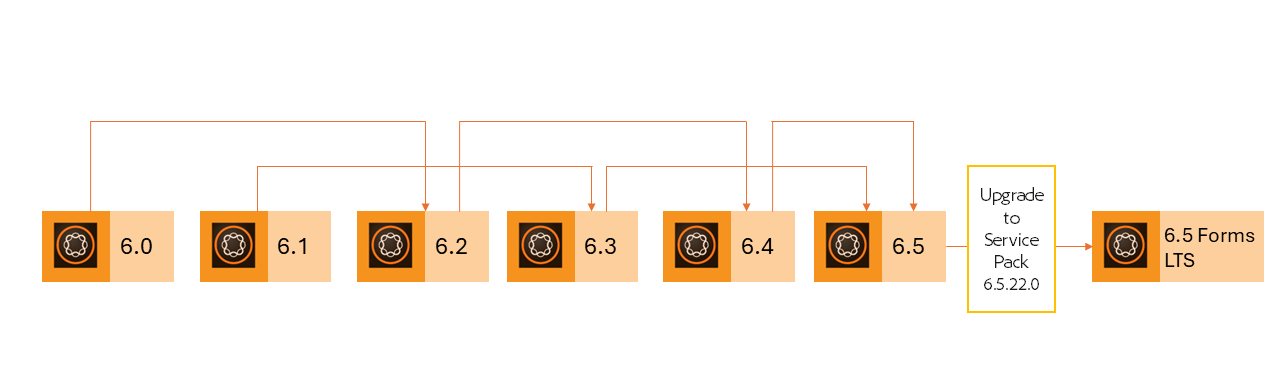
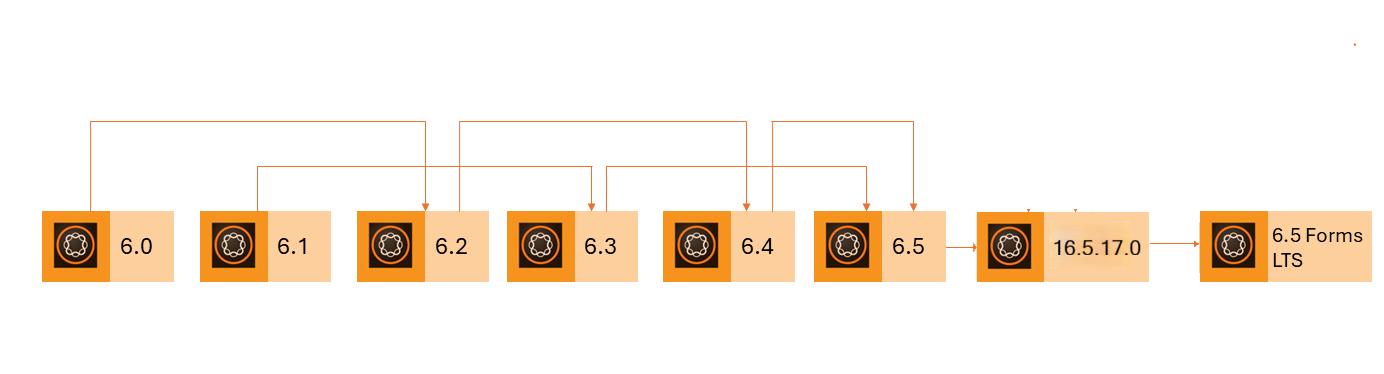
upgraded the image

diff --git a/help/forms/using/upgrade.md b/help/forms/using/upgrade.md
@@ -1,6 +1,6 @@
 ---
-title: Upgrade to AEM 6.5 Forms
-description: You can perform a direct upgrade from AEM 6.3 Forms and AEM 6.4 Forms to AEM 6.5 Forms.
+title: Upgrade to AEM 6.5 LTS Forms
+description: You can perform a direct upgrade from AEM 6.3 Forms and AEM 6.4 Forms to AEM 6.5 LTS Forms.
 content-type: reference
 topic-tags: installing
 geptopics: SG_AEMFORMS/categories/jee
@@ -10,7 +10,7 @@ solution: Experience Manager, Experience Manager Forms
 feature: Adaptive Forms,AEM Forms Upgrade
 exl-id: 93126750-4645-4084-a21b-5362e3cc08a9
 ---
-# Upgrade to AEM 6.5 Forms {#upgrade-to-aem-forms}
+# Upgrade to AEM 6.5 Forms LTS {#upgrade-to-aem-forms}
 
 ## Applies to {#applies-to}
 
@@ -19,46 +19,29 @@ This documentation applies to **AEM 6.5 LTS Forms**.
 For AEM as a Cloud Service documentation, see [AEM Forms on Cloud Service](https://experienceleague.adobe.com/docs/experience-manager-cloud-service/content/forms/setup-configure-migrate/migrate-to-forms-as-a-cloud-service.html).
 
 
-AEM 6.5 Forms includes several new features and enhancements that streamline the creation, management, and user experiences with forms and correspondences. To learn about all the new capabilities and enhancements of AEM 6.5, see [New features summary document](https://experienceleague.adobe.com/en/docs/experience-manager-65/content/release-notes/release-notes).
+AEM 6.5 LTS Forms includes several new features and enhancements that streamline the creation, management, and user experiences with forms and correspondences. To learn about all the new capabilities and enhancements of AEM 6.5 LTS, see [New features summary document](https://experienceleague.adobe.com/en/docs/experience-manager-65-lts/content/release-notes/release-notes).
 
-You can upgrade your existing LiveCycle or AEM Forms installation to obtain new capabilities and enhancements offered in AEM 6.5 Forms while retaining existing data, processes, and assets intact. On upgrade, metadata and state of the processes are also preserved. You can choose an upgrade path to get started with upgrade.
+You can upgrade your existing LiveCycle or AEM Forms installation to obtain new capabilities and enhancements offered in AEM 6.5 LTS Forms while retaining existing data, processes, and assets intact. On upgrade, metadata and state of the processes are also preserved. You can choose an upgrade path to get started with upgrade.
 
-The following diagram displays the available upgrade paths for AEM Forms on OSGi:
+The following diagram displays the available upgrade paths for AEM Forms LTS on OSGi:
 
 ![OSGi upgrade flow](/help/forms/using/assets/updated-img-forms-upgrade-lts.png) 
 
 You can perform a direct upgrade from:
 
-* AEM 6.3 Forms on OSGi
-* AEM 6.4 Forms on OSGi
-* AEM 6.5.22.0 to AEM Forms 6.5 LTS
+* AEM 6.5.17.0 to AEM Forms 6.5 LTS
 
-You can also perform a multi-hop upgrade from
-
-* AEM 6.0 Forms on OSGi
-* AEM 6.1 Forms on OSGi
-* AEM 6.2 Forms on OSGi
-
-<!--
-
-The following diagram displays the available upgrade paths for AEM Forms on JEE:
+The following diagram displays the available upgrade paths for AEM Forms LTS on JEE:
 
 ![JEE upgrade 6.5](do-not-localize/jee-upgrade-6-5.png) 
 
-
 You can perform a direct upgrade from:
 
-* AEM 6.3 Forms on JEE
-* AEM 6.4 Forms on JEE
-* AEM 6.5.x.x Forms on JEE
+* AEM 6.5.17.0 Forms on JEE
+* AEM 6.5.23.0 Forms on JEE
 
-You can also perform a multi-hop upgrade from
 
-* LiveCycle ES4 SP1
-* AEM 6.0 Forms on JEE
-* AEM 6.1 Forms on JEE
-* AEM 6.2 Forms on JEE
-
+<!--
 AEM 6.5.18.0 Forms on JEE provides two types of installers: [Full installer](https://experienceleague.adobe.com/docs/experience-manager-release-information/aem-release-updates/forms-updates/aem-forms-releases.html) and [Patch installer](https://experienceleague.adobe.com/docs/experience-manager-release-information/aem-release-updates/forms-updates/aem-forms-releases.html).
 
 **Full installer**: You can use the full installer to set up fresh AEM Forms instances or perform upgrades from AEM 6.5.x.x Forms on JEE to AEM 6.5.18.0 Forms on JEE.
@@ -80,12 +63,12 @@ Refer to the [AEM 6.5 Forms Service Pack installation instructions](https://expe
 Migration involves moving only assets (PDF, XDP, images, adaptive forms, correspondence management assets) from one server to another - processes (LCA), settings, configurations, and a few other pieces of metadata are not migrated. Perform the following steps to migrate to AEM 6.3 Forms:
 
 1. Set up a fresh environment of [AEM 6.3 Forms](https://adobe.com/go/learn_aemforms_documentation_63).
-1. Move XDP or other compatible assets to the freshly set instance. For detailed instructions, see [Importing and exporting assets to AEM Forms](../../forms/using/import-export-forms-templates.md). [import templates](../../forms/using/import-export-forms-templates.md)
-1. Build the required services, if any.
+2. Move XDP or other compatible assets to the freshly set instance. For detailed instructions, see [Importing and exporting assets to AEM Forms](../../forms/using/import-export-forms-templates.md). [import templates](../../forms/using/import-export-forms-templates.md)
+3. Build the required services, if any.
 
    For example, if you are using AEM Forms on JEE Document Services, changes are required in the code to use document services available in AEM Forms on OSGi.
 
-1. Perform post-installation activities:
+4. Perform post-installation activities:
 
     * **Run Migration Utility**
 
